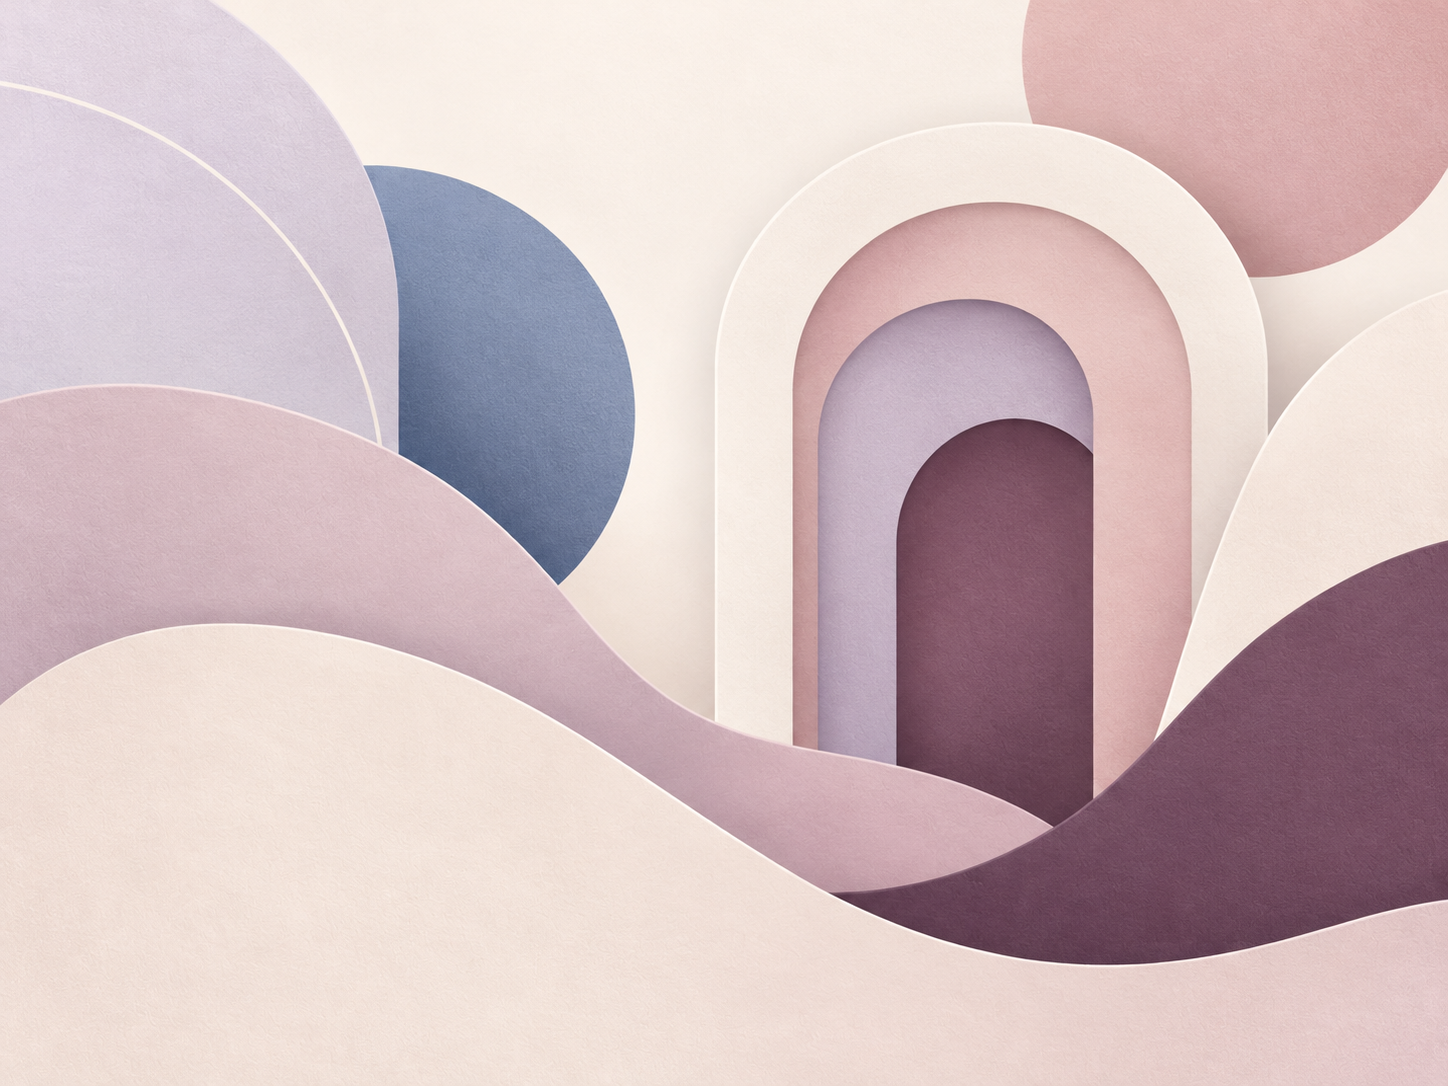
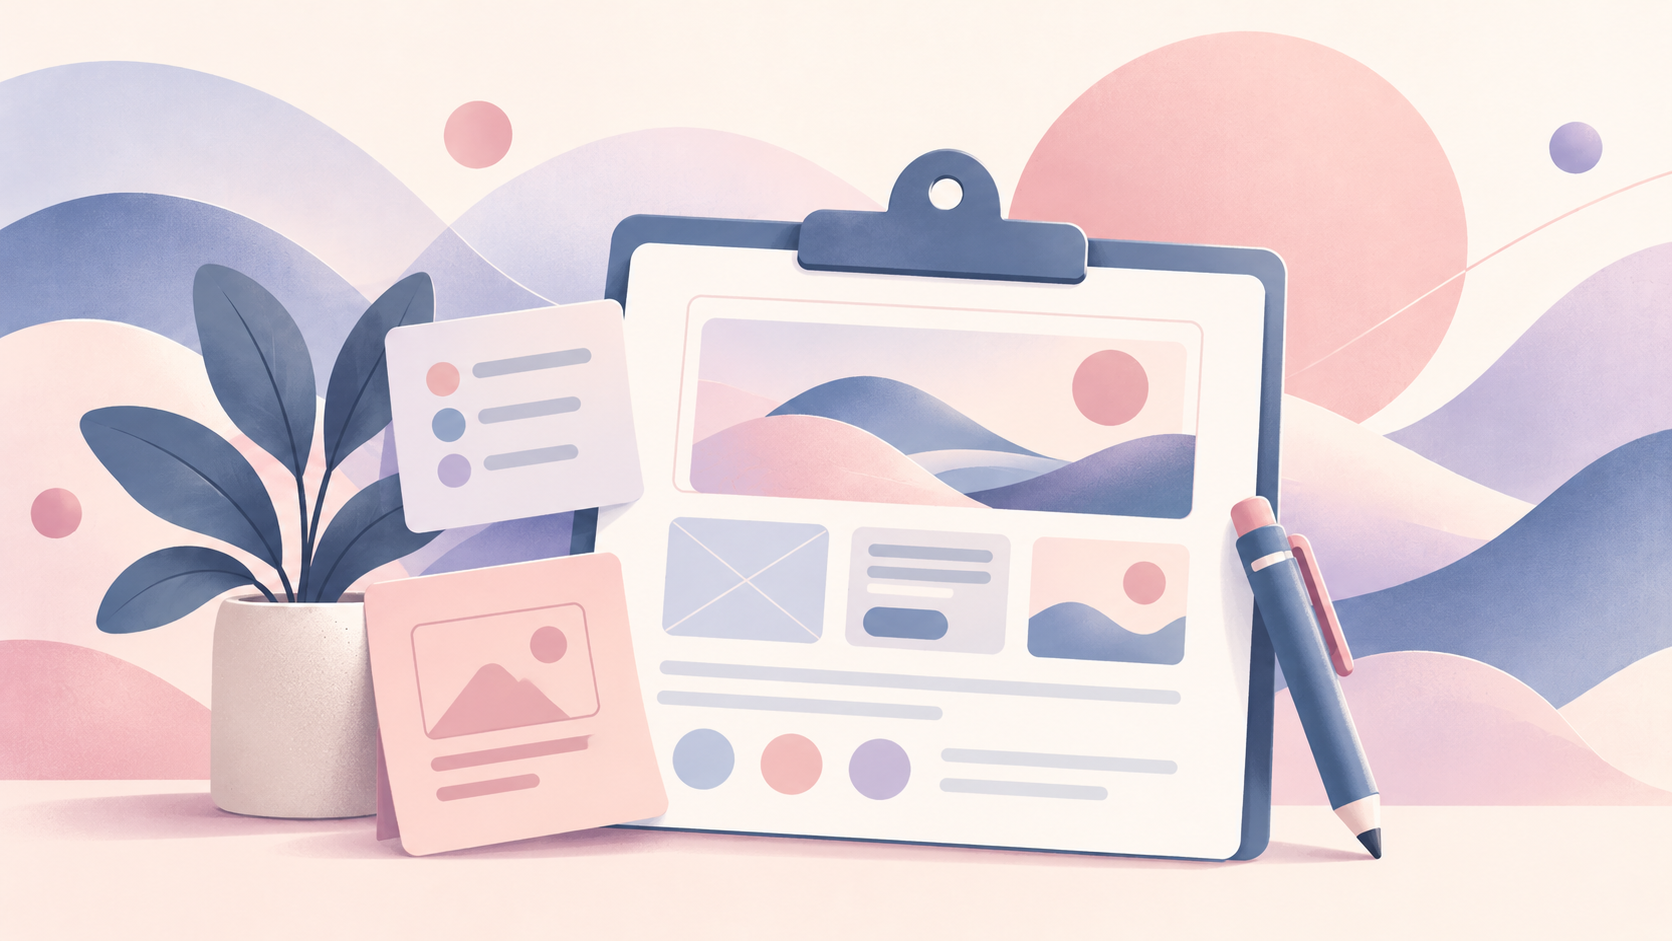
https://github.com/nataliedeleeuw/min-sida-experiment

diff --git a/src/index.css b/src/index.css
@@ -1,9 +1,9 @@
 @import url('https://fonts.googleapis.com/css2?family=DM+Sans:wght@400;500;600;700&family=Outfit:wght@400;500;600;700;800&display=swap');
 :root {
-  --text: #6b6375;
-  --text-h: #08060d;
-  --bg: #fff;
-  --border: #e5e4e7;
+  --text: #4E5059;
+  --text-h: #1C2027;
+  --bg: ##FFFAF5;
+  --border: #E7DFD9;
   --code-bg: #f4f3ec;
   --accent: #aa3bff;
   --accent-bg: rgba(170, 59, 255, 0.1);
@@ -18,7 +18,7 @@
 
   font: 18px/145% var(--sans);
   letter-spacing: 0.18px;
-  color-scheme: light dark;
+  color-scheme: light;
   color: var(--text);
   background: var(--bg);
   font-synthesis: none;
@@ -28,22 +28,6 @@
 
   @media (max-width: 1024px) {
     font-size: 16px;
-  }
-}
-
-@media (prefers-color-scheme: dark) {
-  :root {
-    --text: #9ca3af;
-    --text-h: #f3f4f6;
-    --bg: #16171d;
-    --border: #2e303a;
-    --code-bg: #1f2028;
-    --accent: #c084fc;
-    --accent-bg: rgba(192, 132, 252, 0.15);
-    --accent-border: rgba(192, 132, 252, 0.5);
-    --social-bg: rgba(47, 48, 58, 0.5);
-    --shadow:
-      rgba(0, 0, 0, 0.4) 0 10px 15px -3px, rgba(0, 0, 0, 0.25) 0 4px 6px -2px;
   }
 
   #social .button-icon {

diff --git a/src/components/ProjektKort.css b/src/components/ProjektKort.css
@@ -24,7 +24,7 @@
 
 .projekt-info h3 {
   margin: 0 0 8px;
-  color: #261f3a;
+  color: #1C2027;
   font-size: 20px;
 }
 .projekt-knapp {
@@ -32,21 +32,22 @@
   margin-top: auto;
   align-self: flex-start;
   padding: 10px 20px;
-  border-radius: 10px;
-  background-color: #7e2b60;
-  color: #fcf6fa;
+  border-radius: 6px;
+  background-color: #365F87;
+  color: #FFFAF5;
   font-weight: 600;
   text-decoration: none;
 }
 
 .projekt-knapp:hover {
-  background-color: #320120;
+  background-color: #4C78A5;
 }
 
 .projekt-knapp:focus-visible {
-  outline: 3px solid #7e2b60;
+  outline: 3px solid #4C78A5;
   outline-offset: 4px;
 }
 .projekt-info p {
+  color: #4E5059;
   margin-bottom: 16px;
 }

diff --git a/src/components/OmMig.css b/src/components/OmMig.css
@@ -1,17 +1,19 @@
 .om-mig {
-  background-color: #fcf6fa;
+  background-color: #FCF5F6;
   padding: 80px 32px;
   text-align: center;
 }
 
 .om-mig h2 {
-  color: #261f3a;
+  color: #1C2027;
+  font-family: 'Outfit', sans-serif;
   font-size: 32px;
+  font-weight: 700;
   margin-bottom: 24px;
 }
 
 .om-mig p {
-  color: #40374f;
+  color: #4E5059;
   font-size: 18px;
   line-height: 1.8;
   max-width: 650px;

diff --git a/src/components/Projekt.css b/src/components/Projekt.css
@@ -1,10 +1,13 @@
 .projekt {
   padding: 64px 32px;
-  background-color: #ede9f6;
+  background-color: #F5F0F4;;
 }
 
 .projekt h2 {
+  font-family: 'Outfit', sans-serif;
   font-size: 32px;
+  font-weight: 700;
+  color: #1C2027;
   margin: 0 0 32px;
 }
 

diff --git a/src/components/Hero.css b/src/components/Hero.css
@@ -72,9 +72,9 @@
     text-decoration: none;
     border-radius: 6px;
 }
-.hero-button:hover {    
-    background-color: #365F87;
-}    
+.hero-button:hover {
+  background-color: #4C78A5;
+}   
 .hero-image {
   position: relative;
   display: flex;
